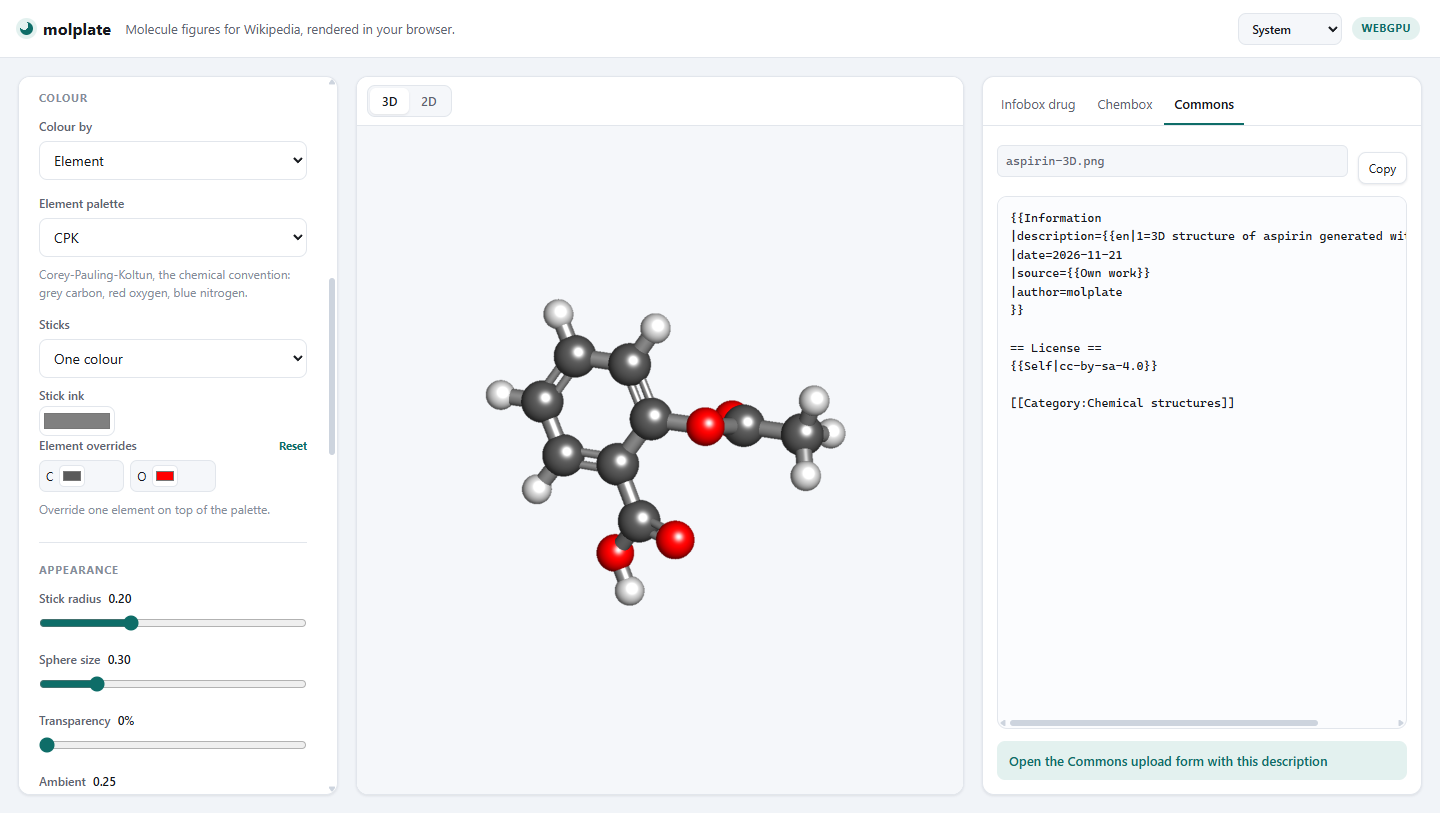
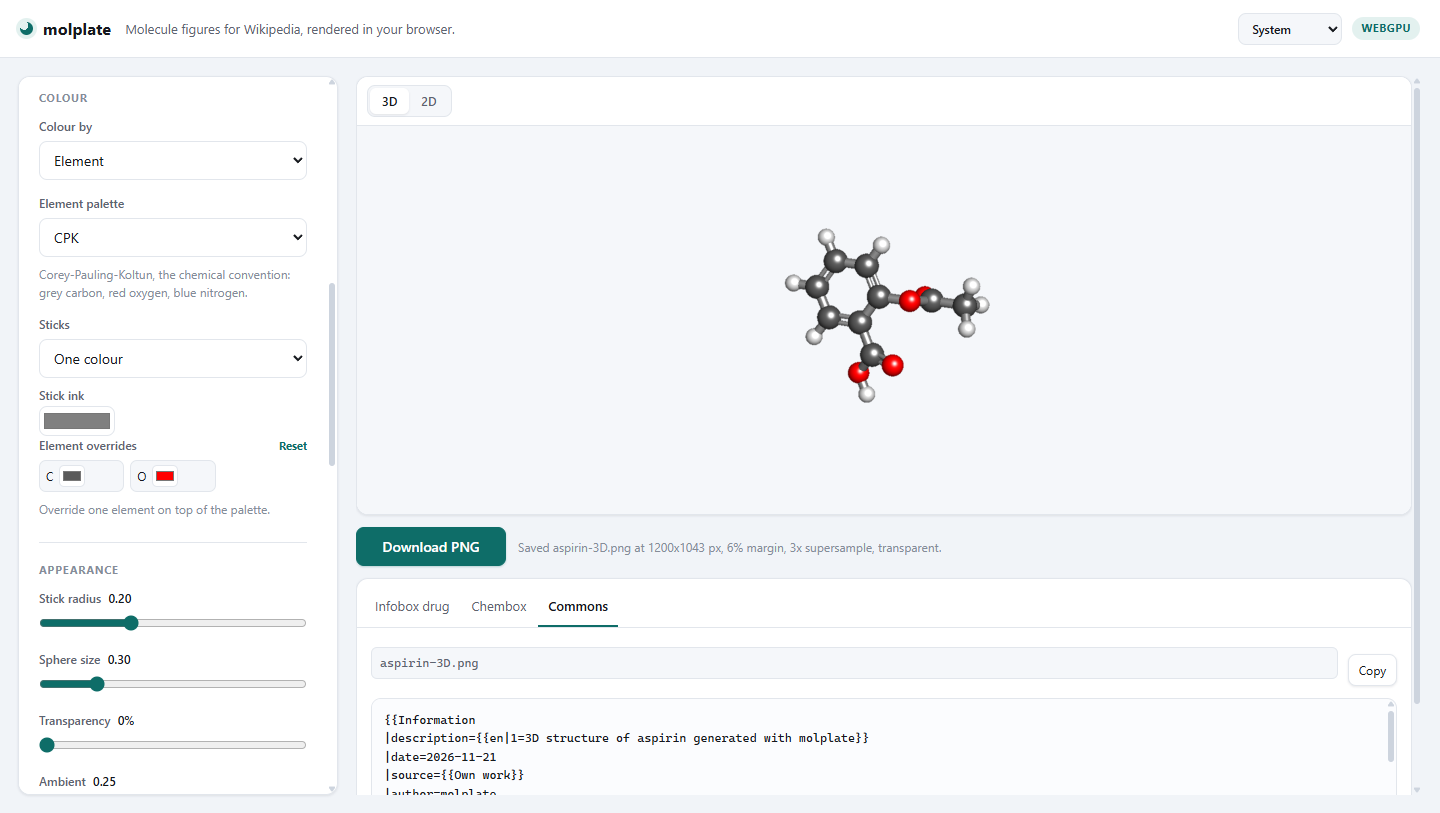
Put the download and markup below the figure

diff --git a/web/index.html b/web/index.html
@@ -259,9 +259,6 @@
           <label class="checkbox"><input id="export-transparent" type="checkbox" checked /> Transparent background</label>
           <label class="checkbox"><input id="export-labels" type="checkbox" /> Atom labels</label>
           <label class="checkbox"><input id="export-scalebar" type="checkbox" /> Scale bar</label>
-
-          <button id="export" type="button" class="primary" disabled>Download PNG</button>
-          <p id="export-status" class="hint" role="status"></p>
         </section>
 
         <details id="shortcuts" class="shortcuts">
@@ -278,49 +275,56 @@
         </details>
       </aside>
 
-      <section class="stage" aria-label="Molecular view">
-        <div class="stage-bar">
-          <div class="segmented" role="tablist" aria-label="View">
-            <button id="mode-3d" type="button" role="tab" aria-selected="true" aria-controls="viewer">3D</button>
-            <button id="mode-2d" type="button" role="tab" aria-selected="false" aria-controls="depiction" disabled title="First use loads the RDKit 2D engine (7.4 MB)">2D</button>
+      <section class="workspace" aria-label="Figure and markup">
+        <section class="stage" aria-label="Molecular view">
+          <div class="stage-bar">
+            <div class="segmented" role="tablist" aria-label="View">
+              <button id="mode-3d" type="button" role="tab" aria-selected="true" aria-controls="viewer">3D</button>
+              <button id="mode-2d" type="button" role="tab" aria-selected="false" aria-controls="depiction" disabled title="First use loads the RDKit 2D engine (7.4 MB)">2D</button>
+            </div>
+            <span id="stage-note" class="stage-note"></span>
           </div>
-          <span id="stage-note" class="stage-note"></span>
-        </div>
-        <div id="viewer" class="viewer-host"></div>
-        <div id="depiction" class="depiction" hidden></div>
-        <div id="stage-message" class="stage-message" role="status" aria-live="polite">
-          <div class="stage-progress">
-            <span class="spinner" aria-hidden="true"></span>
-            <p id="stage-text">Loading renderer…</p>
-            <span class="progress-track" aria-hidden="true"><span></span></span>
+          <div id="viewer" class="viewer-host"></div>
+          <div id="depiction" class="depiction" hidden></div>
+          <div id="stage-message" class="stage-message" role="status" aria-live="polite">
+            <div class="stage-progress">
+              <span class="spinner" aria-hidden="true"></span>
+              <p id="stage-text">Loading renderer…</p>
+              <span class="progress-track" aria-hidden="true"><span></span></span>
+            </div>
           </div>
+        </section>
+
+        <div class="figure-bar">
+          <button id="export" type="button" class="primary" disabled>Download PNG</button>
+          <p id="export-status" class="hint" role="status"></p>
         </div>
+
+        <aside class="panel output" aria-label="Wikitext">
+          <div class="tabs" role="tablist">
+            <button role="tab" id="tab-drugbox" aria-selected="true" aria-controls="wikitext">
+              Infobox drug
+            </button>
+            <button role="tab" id="tab-chembox" aria-selected="false" aria-controls="wikitext">
+              Chembox
+            </button>
+            <button role="tab" id="tab-commons" aria-selected="false" aria-controls="wikitext">
+              Commons
+            </button>
+          </div>
+
+          <div class="output-header">
+            <code id="file-name" class="file-name">—</code>
+            <button id="copy" type="button" class="secondary">Copy</button>
+          </div>
+
+          <pre id="wikitext" class="wikitext" tabindex="0">Load a compound to generate markup.</pre>
+
+          <a id="upload" class="upload-link" href="#" target="_blank" rel="noreferrer" hidden>
+            Open the Commons upload form with this description
+          </a>
+        </aside>
       </section>
-
-      <aside class="panel output" aria-label="Wikitext">
-        <div class="tabs" role="tablist">
-          <button role="tab" id="tab-drugbox" aria-selected="true" aria-controls="wikitext">
-            Infobox drug
-          </button>
-          <button role="tab" id="tab-chembox" aria-selected="false" aria-controls="wikitext">
-            Chembox
-          </button>
-          <button role="tab" id="tab-commons" aria-selected="false" aria-controls="wikitext">
-            Commons
-          </button>
-        </div>
-
-        <div class="output-header">
-          <code id="file-name" class="file-name">—</code>
-          <button id="copy" type="button" class="secondary">Copy</button>
-        </div>
-
-        <pre id="wikitext" class="wikitext" tabindex="0">Load a compound to generate markup.</pre>
-
-        <a id="upload" class="upload-link" href="#" target="_blank" rel="noreferrer" hidden>
-          Open the Commons upload form with this description
-        </a>
-      </aside>
     </main>
   </body>
 </html>

diff --git a/web/src/styles.css b/web/src/styles.css
@@ -1,6 +1,7 @@
-/* The page is a three-column instrument: controls, the molecule, the text it produces.
-   One rhythm of spacing and one accent colour bind the three columns into one surface.
-   Three themes share every rule: Light, Paper and Dark. System follows the OS. */
+/* The page is two columns: the instruments on the left, and on the right the figure with
+   its download and, below it, the markup that figure produces. One rhythm of spacing and
+   one accent colour bind the columns into one surface. Three themes share every rule:
+   Light, Paper and Dark. System follows the OS. */
 
 :root {
   --ink: #15181d;
@@ -201,9 +202,54 @@ body {
   flex: 1;
   min-height: 0;
   display: grid;
-  grid-template-columns: minmax(272px, 320px) minmax(0, 1fr) minmax(340px, 440px);
+  grid-template-columns: minmax(272px, 320px) minmax(0, 1fr);
   gap: var(--gap);
   padding: var(--gap);
+}
+
+/* The main column: the figure, its download, then the markup it produces. */
+.workspace {
+  display: flex;
+  flex-direction: column;
+  gap: 12px;
+  min-width: 0;
+  min-height: 0;
+  overflow-y: auto;
+}
+
+/* The figure keeps most of the column; the markup panel stays readable below it.
+   Both keep a height rather than sharing the leftover space, so the molecule is drawn
+   large and the column scrolls when the pair is taller than the viewport. */
+.workspace .stage {
+  flex: none;
+  height: min(54vh, 500px);
+  min-height: 300px;
+}
+
+.workspace .output {
+  flex: none;
+  height: min(38vh, 340px);
+  min-height: 260px;
+  overflow: hidden;
+}
+
+/* Download sits under the figure, with the state of the last action beside it. */
+.figure-bar {
+  display: flex;
+  flex: none;
+  align-items: center;
+  gap: 12px;
+}
+
+.figure-bar #export {
+  flex: none;
+  min-width: 150px;
+}
+
+.figure-bar .hint {
+  flex: 1;
+  min-width: 0;
+  margin: 0;
 }
 
 .panel {

diff --git a/web/src/stage.css b/web/src/stage.css
@@ -383,7 +383,7 @@ kbd {
   }
 }
 
-/* Narrow screens: stack the columns, and put the molecule above the long control list. */
+/* Narrow screens: stack the columns, and put the figure above the long control list. */
 @media (max-width: 1100px) {
   .layout {
     grid-template-columns: 1fr;
@@ -391,9 +391,18 @@ kbd {
     overflow-y: auto;
   }
 
-  .stage {
+  .workspace {
     order: -1;
+  }
+
+  .workspace .stage {
+    flex: none;
     height: min(60vh, 520px);
+  }
+
+  .workspace .output {
+    flex: none;
+    height: min(52vh, 420px);
   }
 
   .wikitext {

diff --git a/README.md b/README.md
@@ -35,7 +35,7 @@ The 2D engine is RDKit.js, 7.39 MB, loaded only when the 2D view first opens. Un
 the page stays at about 624 KB of wasm. The drawing has no background, so the stage tint
 shows through. A Rust V2000 parser is the fallback if the RDKit module cannot load.
 
-![molplate rendering aspirin, with the Commons markup beside it](docs/screenshot.png)
+![molplate rendering aspirin, with its download bar and the Commons markup below it](docs/screenshot.png)
 
 The colour panel: the element palette, the stick ink and the per-element overrides.
 
